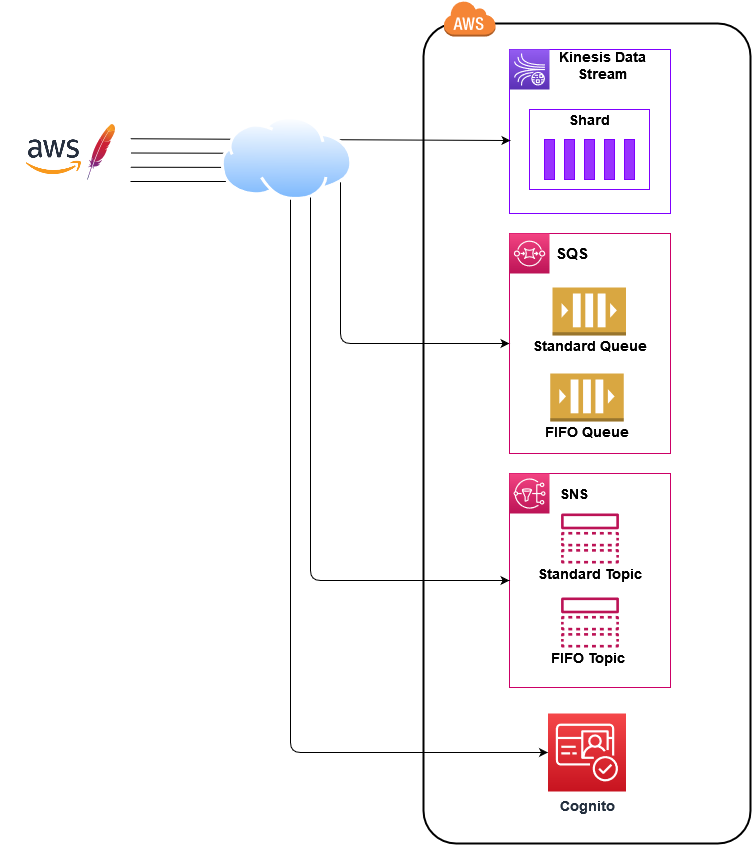
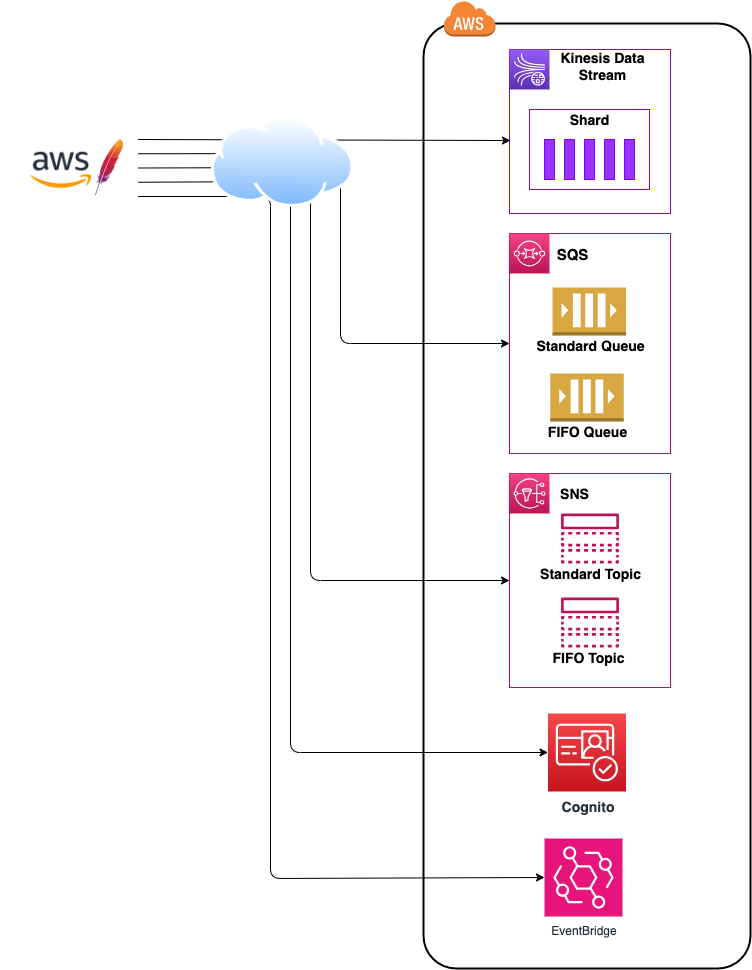
Add instructions to use EventBridge java sampler.

diff --git a/README.md b/README.md
@@ -18,6 +18,7 @@ With `awsmeter` you can test the below aws services:
 * [SQS](https://github.com/JoseLuisSR/awsmeter/tree/main/src/main/java/org/apache/jmeter/protocol/aws/sqs) 
 * [SNS](https://github.com/JoseLuisSR/awsmeter/tree/main/src/main/java/org/apache/jmeter/protocol/aws/sns)
 * [Cognito](https://github.com/JoseLuisSR/awsmeter/tree/main/src/main/java/org/apache/jmeter/protocol/aws/cognito)
+* [EventBridge](https://github.com/JoseLuisSR/awsmeter/tree/main/src/main/java/org/apache/jmeter/protocol/aws/eventbus)
 
 # Install
 
